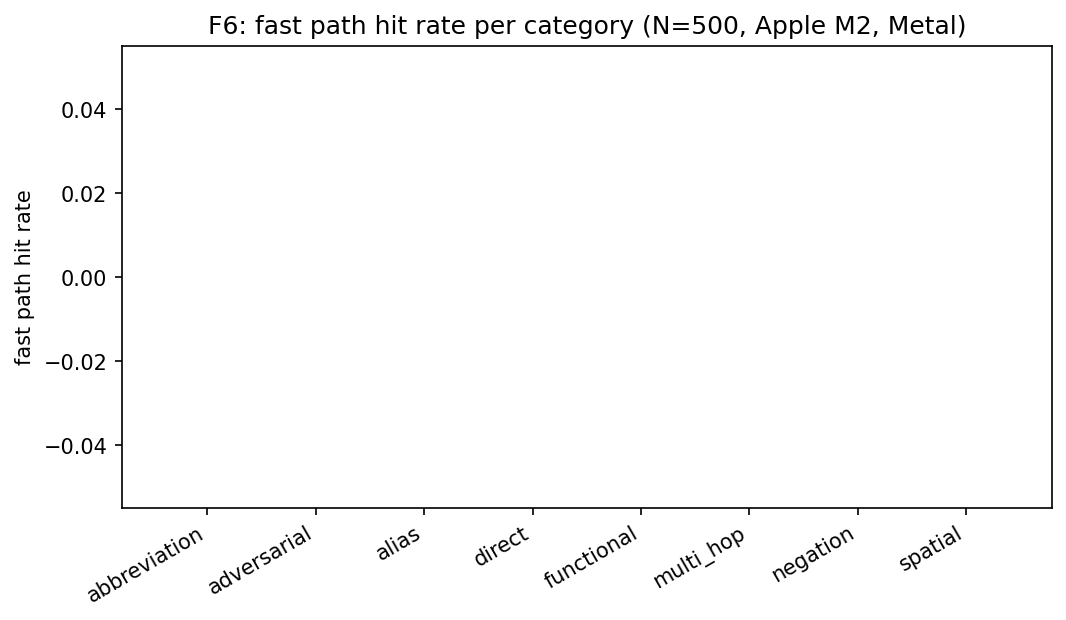
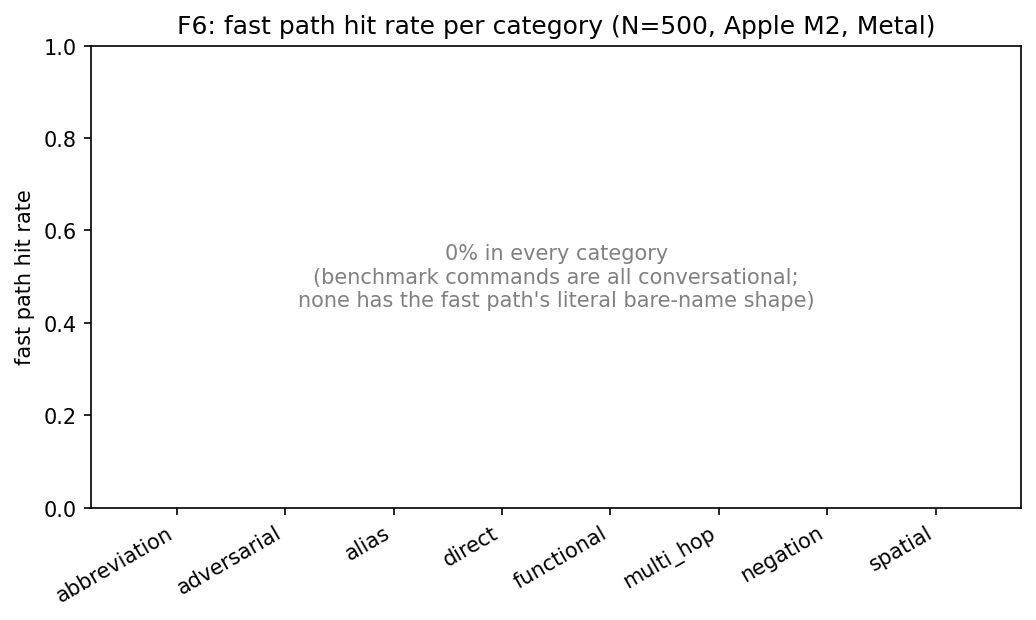
fix: annotate f6 when fast path hit rate is zero everywhere

diff --git a/ml/safenav_ml/make_figures.py b/ml/safenav_ml/make_figures.py
@@ -180,9 +180,17 @@ def figure_f6() -> None:
     rates = [sum(by_cat[c]) / len(by_cat[c]) for c in cats]
     fig, ax = plt.subplots(figsize=(8, 4))
     ax.bar(cats, rates)
+    ax.set_xticks(range(len(cats)))
     ax.set_xticklabels(cats, rotation=30, ha="right")
     ax.set_ylabel("fast path hit rate")
+    ax.set_ylim(0, 1)
     ax.set_title(f"F6: fast path hit rate per category (N=500, {CAPTION_HW})")
+    if max(rates) == 0:
+        ax.text(
+            0.5, 0.5, "0% in every category\n(benchmark commands are all conversational;\n"
+            "none has the fast path's literal bare-name shape)",
+            transform=ax.transAxes, ha="center", va="center", fontsize=10, color="gray",
+        )
     _savefig(fig, "f6_fast_path_hit_rate.png")
 
 
